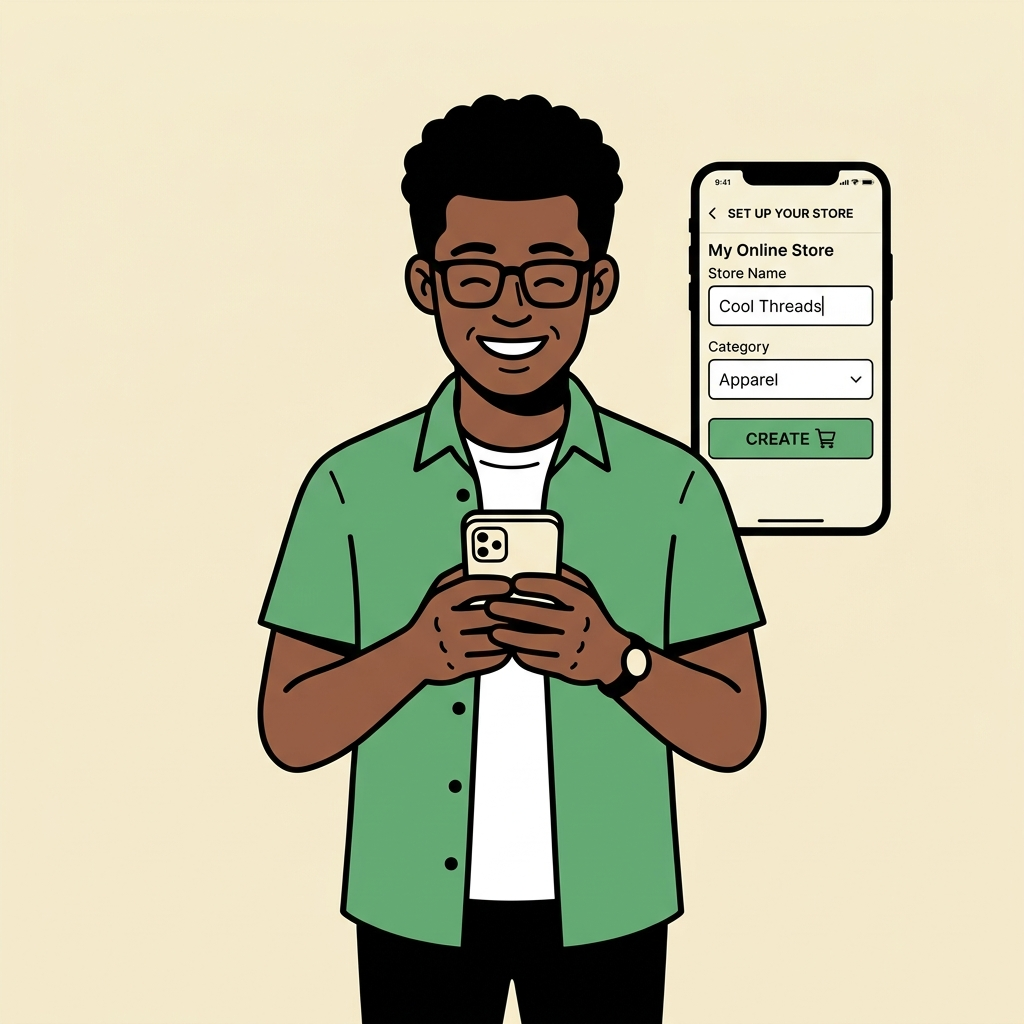
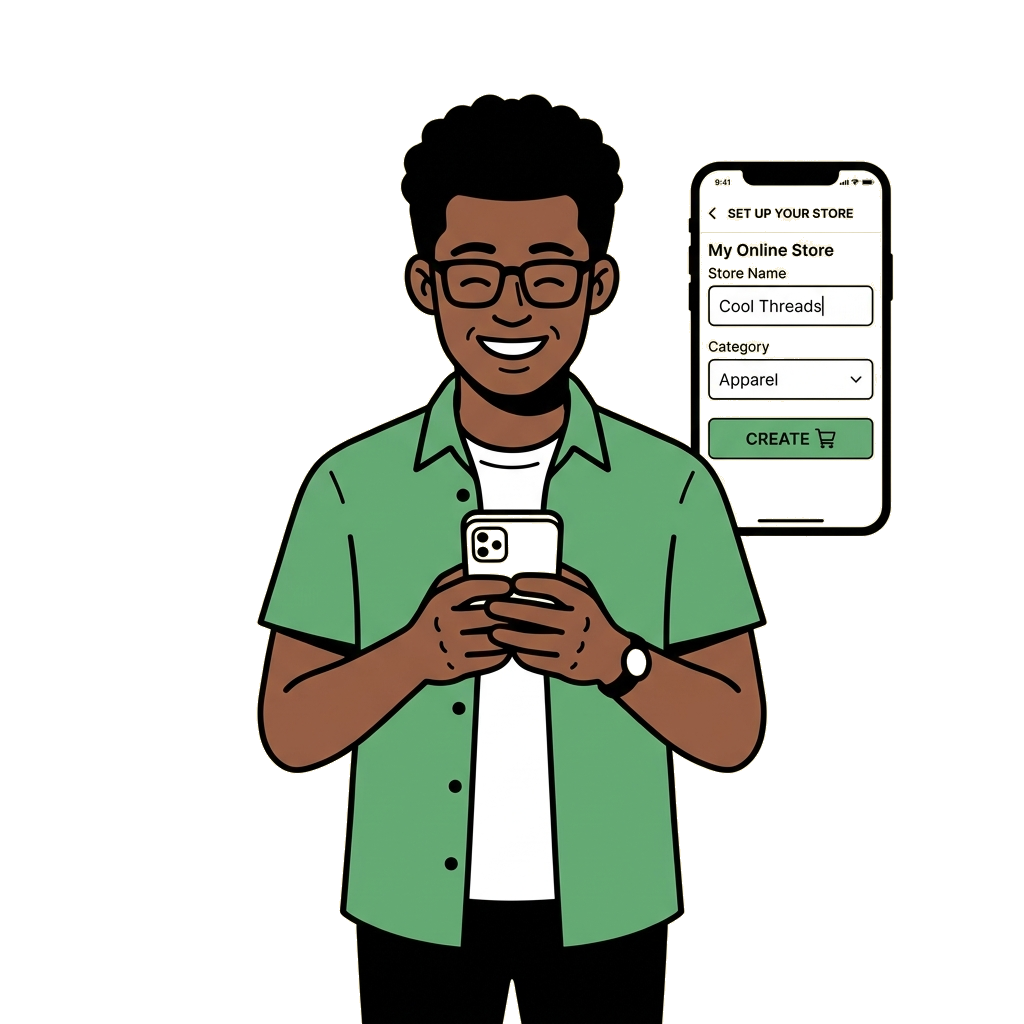
fix: remove background from setup-person-cartoon and add blend mode

diff --git a/src/routes/login.tsx b/src/routes/login.tsx
@@ -90,7 +90,7 @@ function LoginPage() {
               width={640}
               height={640}
               loading="lazy"
-              className="relative z-10 w-full max-w-sm drop-shadow-2xl"
+              className="relative z-10 w-full max-w-sm drop-shadow-2xl mix-blend-darken"
             />
             
             {/* Floating element */}